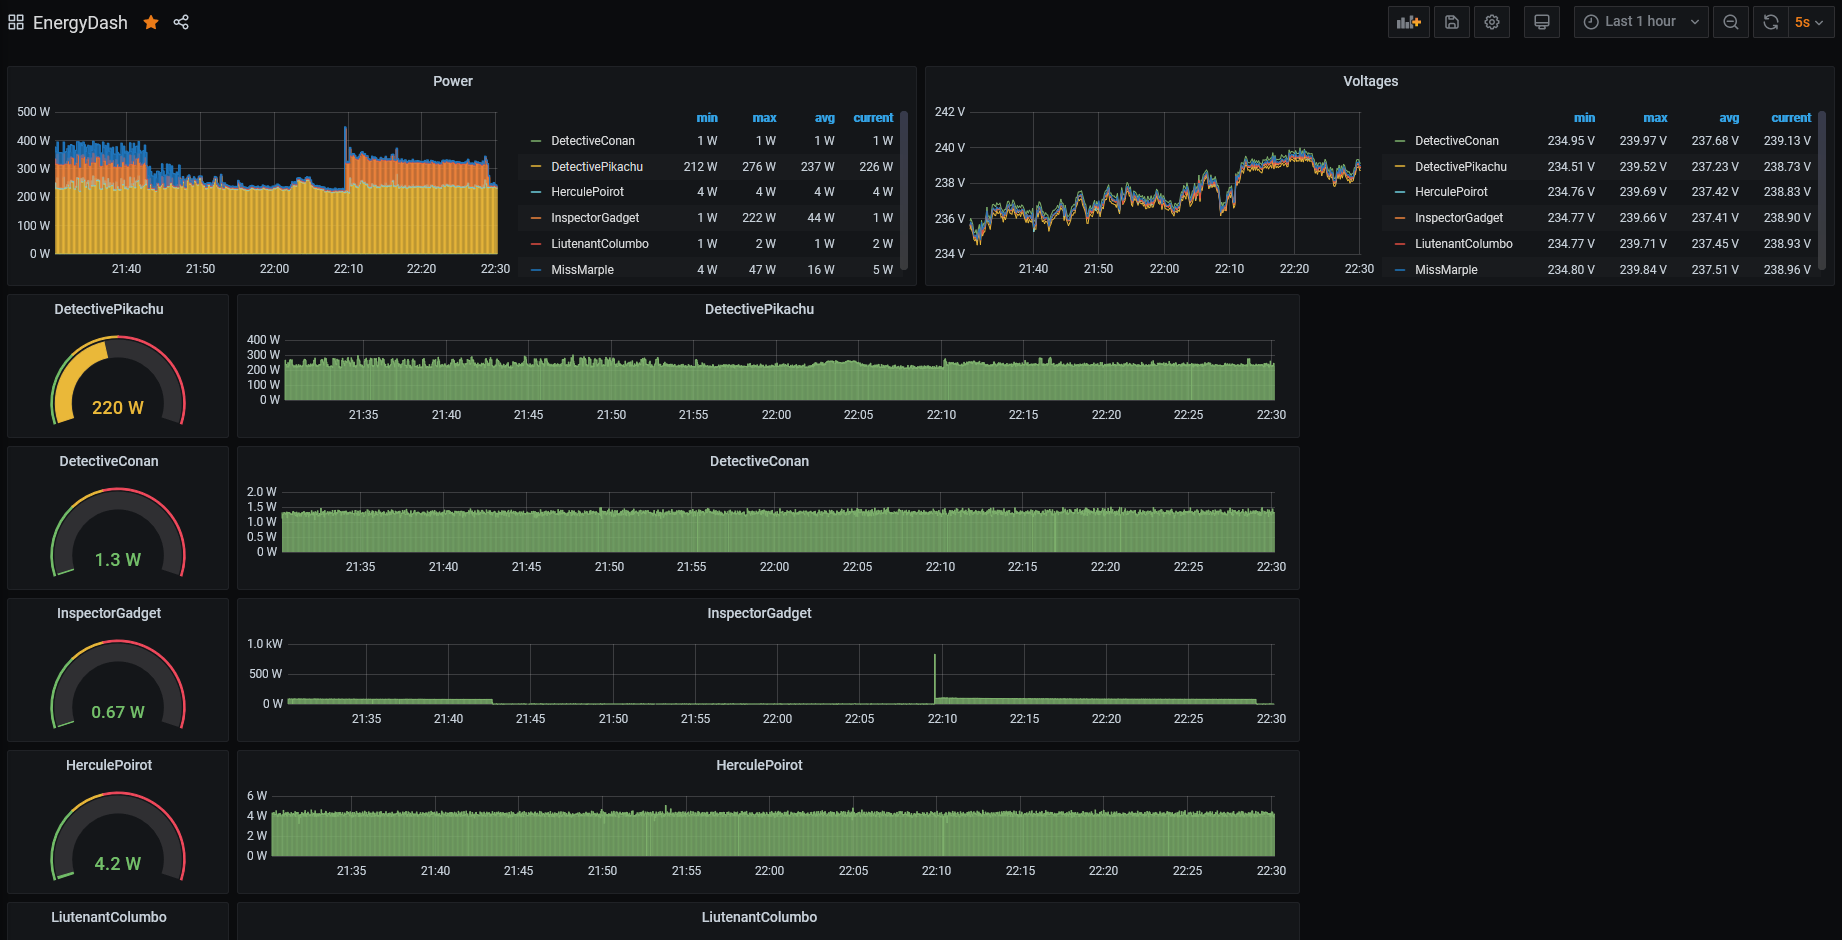
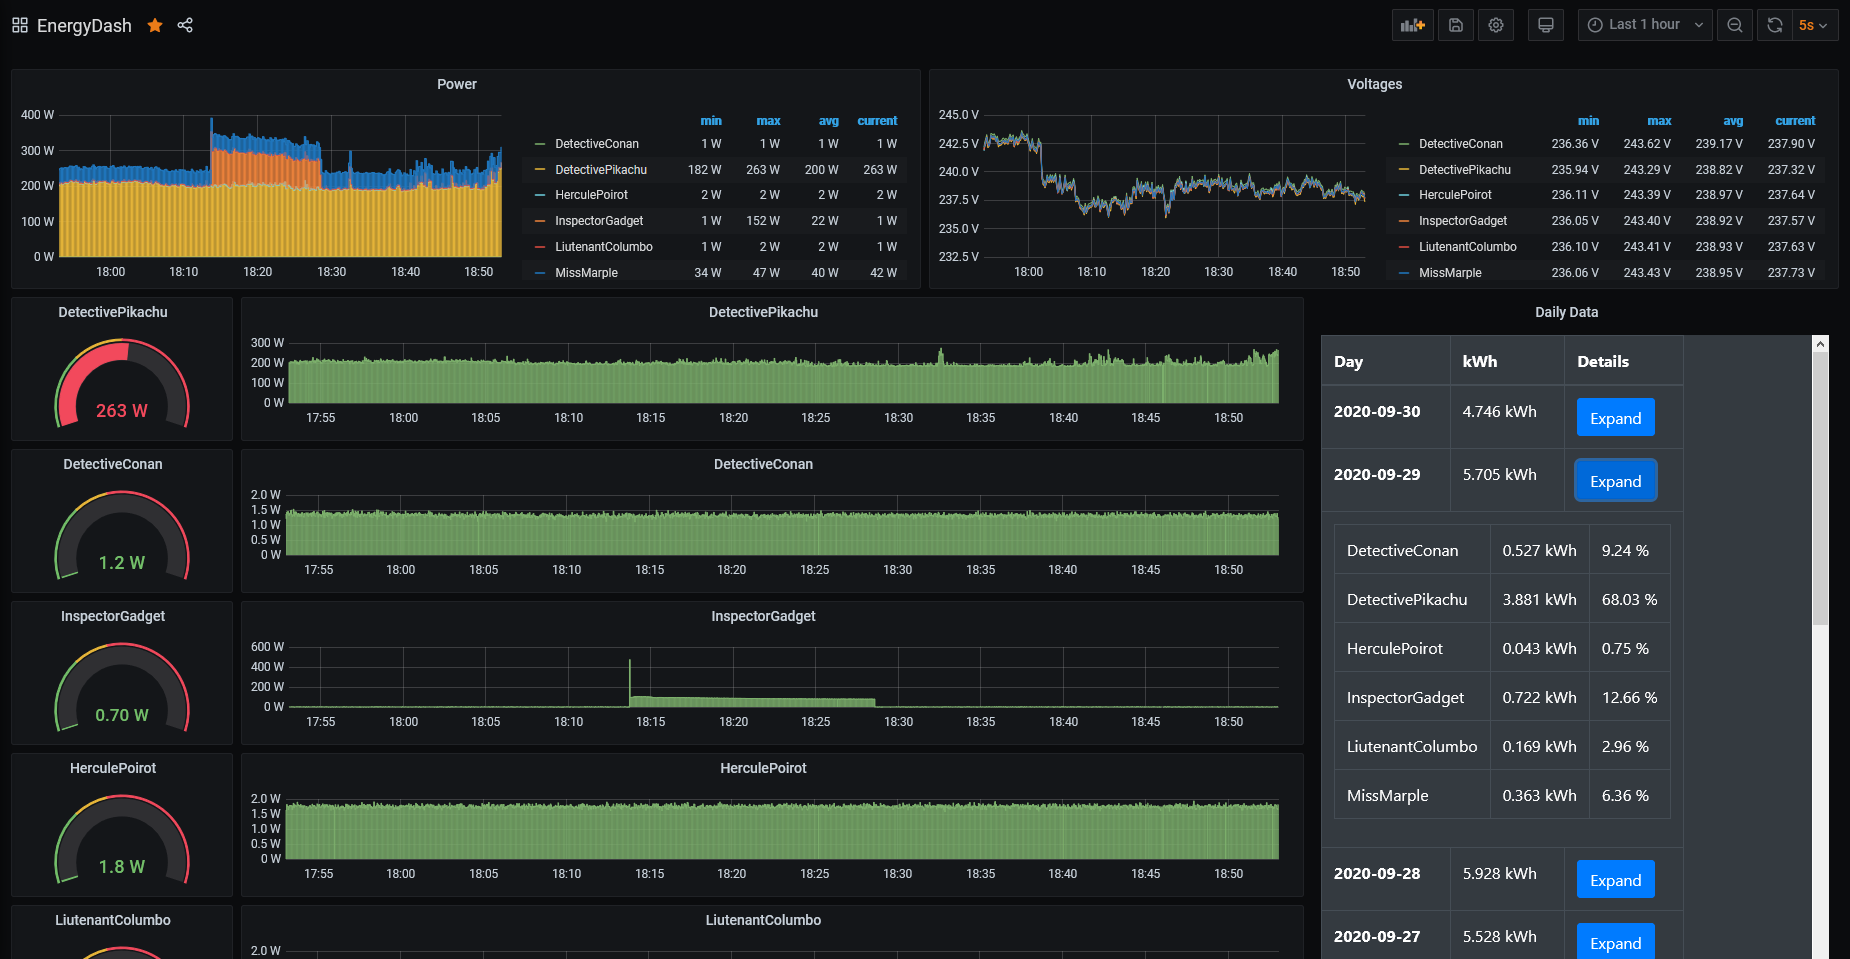
add daily total monitoring and table output

diff --git a/daily_template.html b/daily_template.html
@@ -1,0 +1,65 @@
+<!doctype html>
+<html lang="en">
+<head>
+    <!-- Required meta tags -->
+    <meta charset="utf-8">
+    <meta name="viewport" content="width=device-width, initial-scale=1, shrink-to-fit=no">
+
+    <!-- Bootstrap CSS -->
+    <link rel="stylesheet" href="https://stackpath.bootstrapcdn.com/bootstrap/4.4.1/css/bootstrap.min.css"
+          integrity="sha384-Vkoo8x4CGsO3+Hhxv8T/Q5PaXtkKtu6ug5TOeNV6gBiFeWPGFN9MuhOf23Q9Ifjh" crossorigin="anonymous">
+
+    <title>Power Usage Daily</title>
+</head>
+<body>
+
+<table class="table table-md table-responsive table-bordered table-dark">
+    <thead>
+    <tr>
+        <th scope="col">Day</th>
+        <th scope="col">kWh</th>
+        <th scope="col">Details</th>
+    </tr>
+    </thead>
+    <tbody>
+    {% for key,value in summary.items()|sort(reverse=true) %}
+    <tr>
+        <th scope="row">{{ key }}</th>
+        <td>{{ value.total_wh / 1000 }} kWh</td>
+        <td>
+            <button class="btn btn-primary" type="button" data-toggle="collapse" data-target="#collapse{{ key }}"
+                    aria-expanded="false" aria-controls="collapseExample">
+                Expand
+            </button>
+        </td>
+    </tr>
+    <tr class="collapse" id="collapse{{ key }}">
+        <td colspan="3">
+            <table class="table table-dark">
+                {% for device_details in value.device_details %}
+                <tr>
+                    <td>{{ device_details.device }}</td>
+                    <td>{{ device_details.wh / 1000 }} kWh</td>
+		    <td>{{ "%.2f"|format(device_details.wh / value.total_wh * 100) }} %</td>
+                </tr>
+                {% endfor %}
+            </table>
+        </td>
+    </tr>
+    {% endfor %}
+    </tbody>
+</table>
+
+<!-- Optional JavaScript -->
+<!-- jQuery first, then Popper.js, then Bootstrap JS -->
+<script src="https://code.jquery.com/jquery-3.4.1.slim.min.js"
+        integrity="sha384-J6qa4849blE2+poT4WnyKhv5vZF5SrPo0iEjwBvKU7imGFAV0wwj1yYfoRSJoZ+n"
+        crossorigin="anonymous"></script>
+<script src="https://cdn.jsdelivr.net/npm/popper.js@1.16.0/dist/umd/popper.min.js"
+        integrity="sha384-Q6E9RHvbIyZFJoft+2mJbHaEWldlvI9IOYy5n3zV9zzTtmI3UksdQRVvoxMfooAo"
+        crossorigin="anonymous"></script>
+<script src="https://stackpath.bootstrapcdn.com/bootstrap/4.4.1/js/bootstrap.min.js"
+        integrity="sha384-wfSDF2E50Y2D1uUdj0O3uMBJnjuUD4Ih7YwaYd1iqfktj0Uod8GCExl3Og8ifwB6"
+        crossorigin="anonymous"></script>
+</body>
+</html>

diff --git a/hs110_daily_gather.py b/hs110_daily_gather.py
@@ -1,0 +1,75 @@
+#!/usr/bin/env python3
+import sqlite3
+from pyHS100 import SmartPlug
+import datetime
+from jinja2 import Environment, FileSystemLoader, select_autoescape
+
+env = Environment(
+    loader=FileSystemLoader(''),
+    autoescape=select_autoescape(['html', 'xml'])
+)
+
+db_conn = sqlite3.connect('daily_power_usage.db')
+db_conn.execute("""CREATE TABLE IF NOT EXISTS power_usage 
+                    (
+                        mac_address TEXT, 
+                        device_label TEXT, 
+                        measurement_date DATE, 
+                        measurement_wh INTEGER,
+                        PRIMARY KEY (mac_address, measurement_date)
+                    )""")
+
+plug_ips = ["192.168.XXX.XXX", "192.168.XXX.XXX", "192.168.XXX.XXX"]
+plug_info = {}
+plug_connections = {}
+
+
+def log_daily_data(plug_conn, year, month):
+    daily = plug_conn.get_emeter_daily(year, month)
+    for day in daily.keys():
+        date_for_entry = datetime.date(year, month, day)
+        formatted_date = date_for_entry.strftime('%Y-%m-%d')
+        day_power_wh = int(daily[day] * 1000)
+        db_conn.execute(
+            "INSERT OR REPLACE INTO power_usage (mac_address, device_label,measurement_date,measurement_wh) "
+            "VALUES (?,?,?,?)", (plug_info[plug_ip]['mac'], plug_info[plug_ip]['alias'],
+                                 formatted_date, day_power_wh))
+
+
+for plug_ip in plug_ips:
+    plug = SmartPlug(plug_ip)
+    sys_info = plug.get_sysinfo()
+    plug_info[plug_ip] = {
+        'mac': sys_info['mac'],
+        'alias': sys_info['alias']
+    }
+    plug_connections[plug_ip] = plug
+    # try previous month
+    month_ago = datetime.datetime.now() - datetime.timedelta(days=30)
+    log_daily_data(plug, month_ago.year, month_ago.month)
+    # current month
+    now = datetime.datetime.now()
+    log_daily_data(plug, now.year, now.month)
+
+db_conn.commit()
+
+cur = db_conn.execute("""SELECT device_label,measurement_date,SUM(measurement_wh) 
+FROM power_usage 
+GROUP BY device_label,measurement_date ORDER BY date(measurement_date) DESC""")
+results = cur.fetchall()
+
+summary = {}
+for row in results:
+    label, date, wh = row
+    if not (date in summary):
+        summary[date] = {'total_wh': 0, 'device_details': []}
+    summary[date]['total_wh'] += wh
+    summary[date]['device_details'].append({'device': label, 'wh': wh})
+
+template = env.get_template('daily_template.html')
+rendered = template.render(summary=summary)
+
+with open('daily_rendered.html', 'w') as f:
+    f.write(rendered)
+
+db_conn.close()

diff --git a/README.md b/README.md
@@ -158,3 +158,35 @@ Data should be fed into InfluxDB now.
 - in SELECT change field(value) to field(power)
 - you should already start seeing graph data showing milliwatts
 - add more graphs, group by device, ask someone who knows grafana better
+
+## Daily Totals monitoring 
+
+**New** 2020-09-30
+
+I also want to gather long term data by day/week/month and compare it to the power bill. And this presents some problems:
+- my InfluxDB feeder may fail (from experience, saw it happen) sometimes or miss some data points
+- Averaging even over measurements made every second could give odd results
+- too many data points to work with, totals per day would be good enough
+
+Thankfully the HS110 plug does store total power usage per day on the plug and this is available via pyHS100. 
+As far as I know it stores last 30 days with totals per day and also aggregate monthly numbers.
+
+We want to be able to look up a certain day's measurements even from a few months ago, so we're just going to periodically
+save the data in our own small SQLite database.
+
+- pre-requisites: `pip install sqlite3 jinja2` if not existing
+- copy [hs110_daily_gather.py](hs110_daily_gather.py) somewhere on the system
+- also copy [daily_template.html](daily_template.html) in the same folder as the python script
+- set HS110 device IPs in `plug_ips = ["192.168.XXX.XXX", "192.168.XXX.XXX", "192.168.XXX.XXX"]`
+- make the script executable if needed using `chmod +x hs110_daily_gather.py`
+- run `./hs110_daily_gather.py` which will do the following
+    - it will create a `daily_power_usage.db` file if not existing. This is the SQLite database
+    - it will gather daily usage data from the HS110 plugs for the current month and previous month and update them in the database
+    - it will render the `daily_template.html` as `daily_rendered.html` file. 
+    This is a basic bootstrap styled table as can be seen below with all the power usage totals  
+- set a cronjob to run the `hs110_daily_gather.py` script at least daily or more frequently if you wish the current day's total
+usage to be more up to date
+- Optional: I also created a symlink to serve it via my webserver and plugged it into Grafana using the AJAX Panel Plugin ( https://grafana.com/grafana/plugins/ryantxu-ajax-panel ) 
+
+
+![Daily Totals](power_monitoring_daily_totals_table.png)
